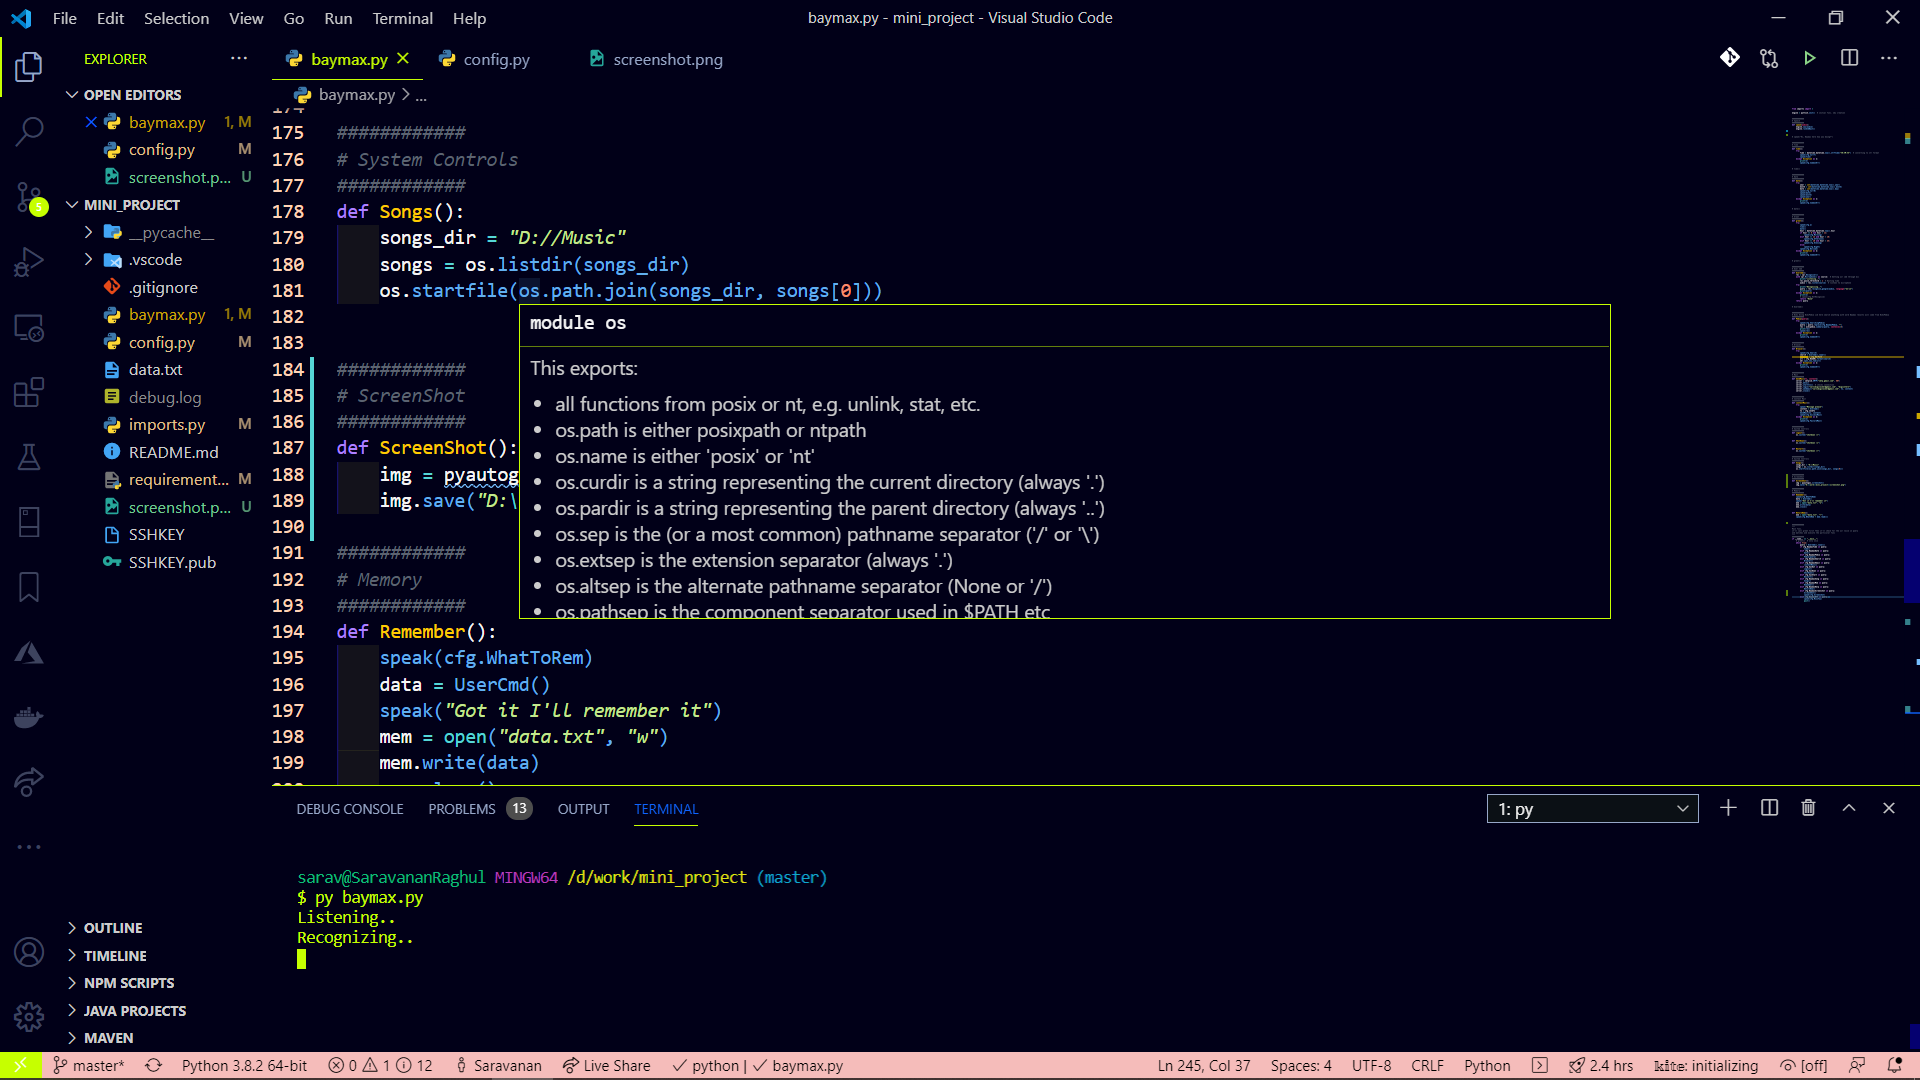
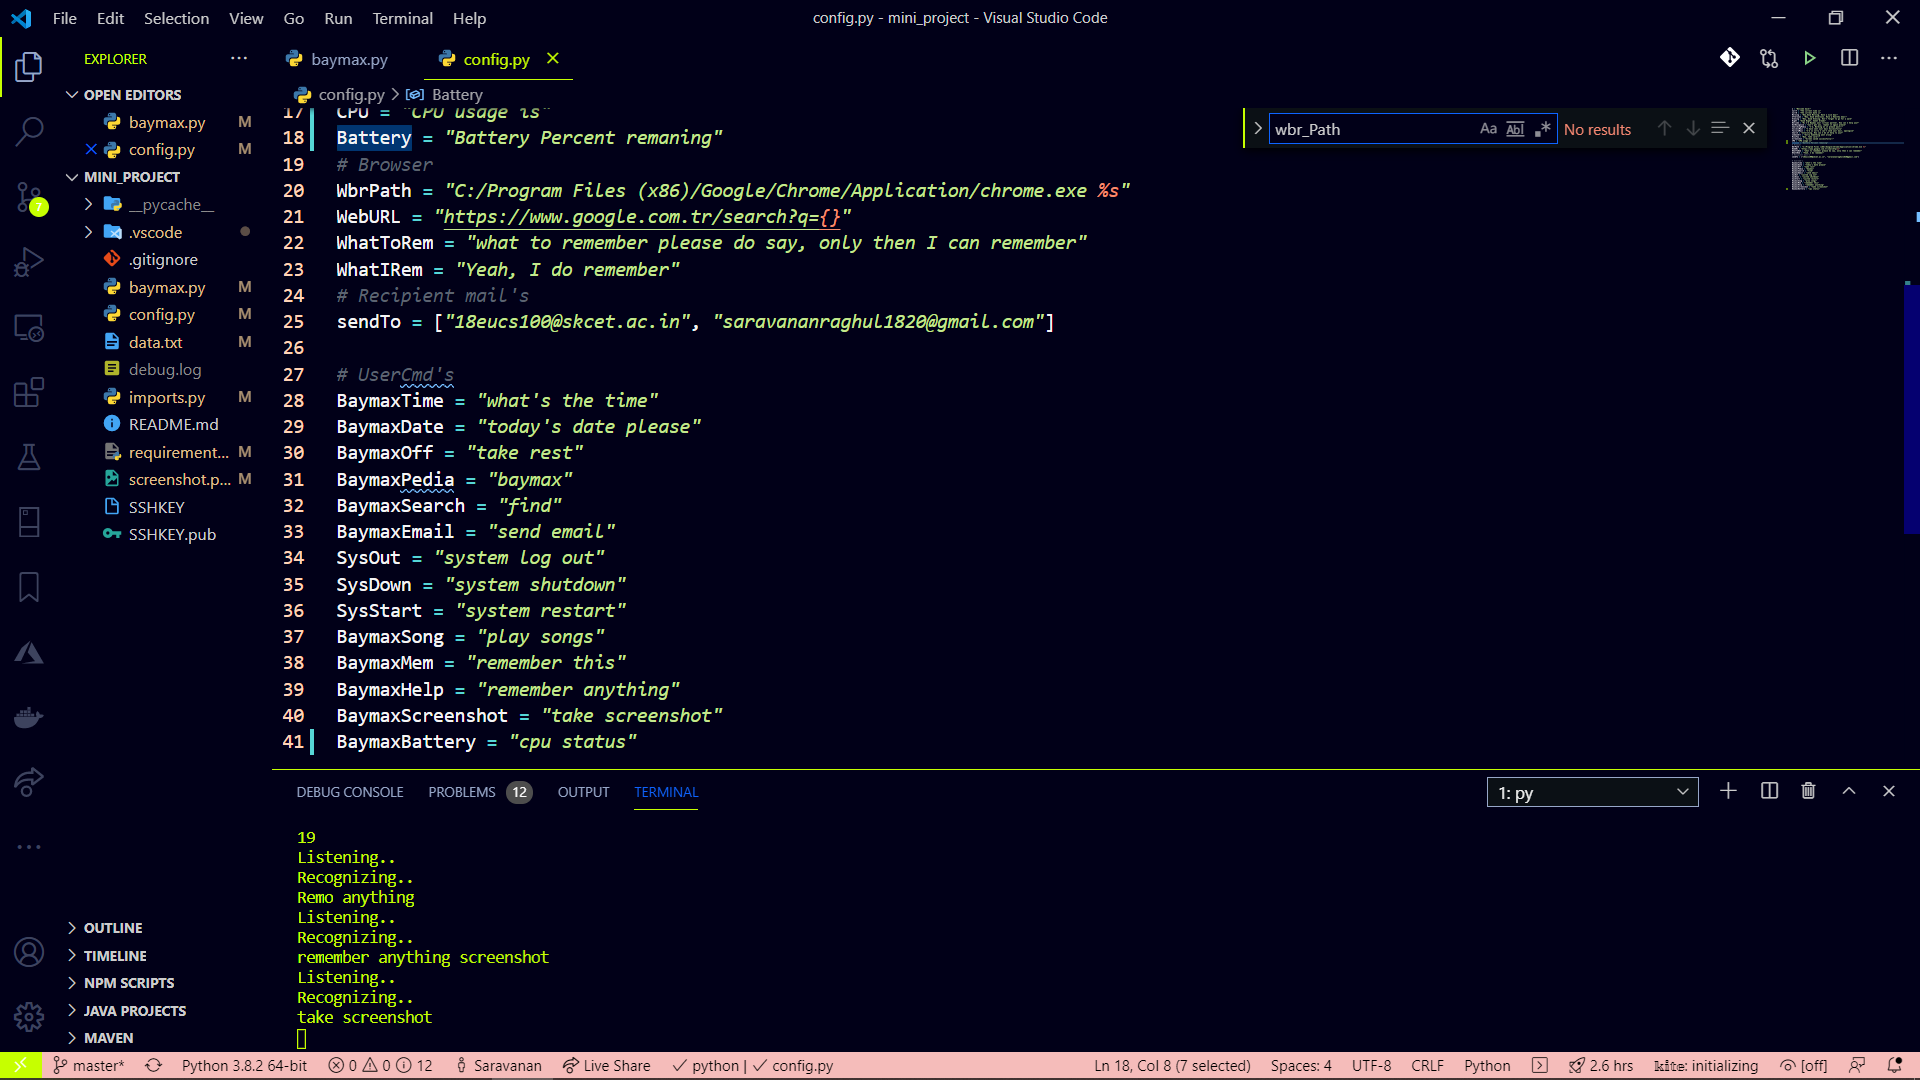
added func for CPU usage

diff --git a/baymax.py b/baymax.py
@@ -9,7 +9,6 @@ engine = pyttsx3.init()  # initial func. obj creation
 def speak(audio):
     engine.say(audio)
     engine.runAndWait()
-    
 
 
 # speak("Hi, Baymax here how you doing?")
@@ -122,7 +121,7 @@ def Browser():
     try:
         speak(cfg.Search)
         search = UserCmd().lower()
-        wbr_Path = cfg.WbrPath
+        # wbr_Path = cfg.WbrPath
         url = cfg.WebURL.format(search)
         wbr.open_new_tab(url)
     except Exception as e:
@@ -188,6 +187,18 @@ def ScreenShot():
     img = pyautogui.screenshot()
     img.save("D:\\work\\mini_project\\screenshot.png")
 
+
+############
+# CPU
+############
+def Battery():
+    usage = str(psutil.cpu_percent())
+    speak(cfg.CPU + usage)
+    battery = psutil.sensors_battery()
+    speak(cfg.Battery)
+    speak(battery.percent)
+
+
 ############
 # Memory
 ############
@@ -203,7 +214,6 @@ def Remember():
 def ReturnRem():
     mem = open("data.txt", "r")
     speak(cfg.WhatIRem + mem.read())
-
 
 
 ############
@@ -239,6 +249,8 @@ if __name__ == "__main__":
             Remember()
         elif cfg.BaymaxHelp in query:
             ReturnRem()
+        elif cfg.BaymaxBattery in query:
+            Battery()
         elif cfg.BaymaxScreenshot in query:
             ScreenShot()
             speak(cfg.Screenshot)

diff --git a/config.py b/config.py
@@ -14,6 +14,8 @@ Search = "Intersting, How can I be of help to you?"
 CommonErr = "Sorry Something went wrong"
 MissYou = "Bye, Take care!!"
 Screenshot = "Screen saved successfully!!"
+CPU = "CPU usage is"
+Battery = "Battery Percent remaning"
 # Browser
 WbrPath = "C:/Program Files (x86)/Google/Chrome/Application/chrome.exe %s"
 WebURL = "https://www.google.com.tr/search?q={}"
@@ -36,3 +38,4 @@ BaymaxSong = "play songs"
 BaymaxMem = "remember this"
 BaymaxHelp = "remember anything"
 BaymaxScreenshot = "take screenshot"
+BaymaxBattery = "cpu status"

diff --git a/imports.py b/imports.py
@@ -3,6 +3,7 @@ import os
 import smtplib
 import webbrowser as wbr
 
+import psutil
 import pyautogui
 import pyttsx3  # text to speech
 import speech_recognition as spr
